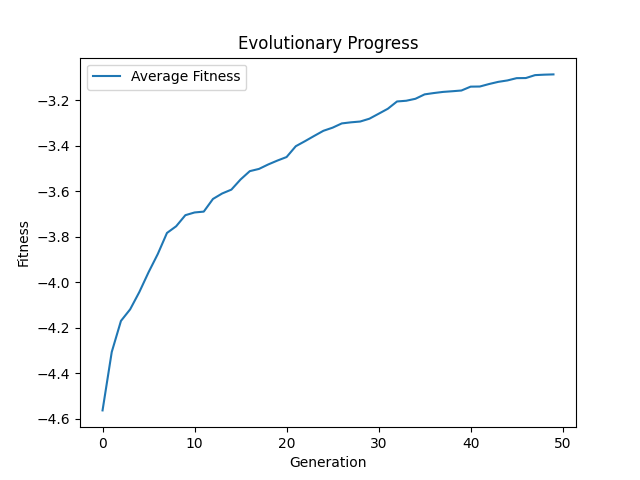
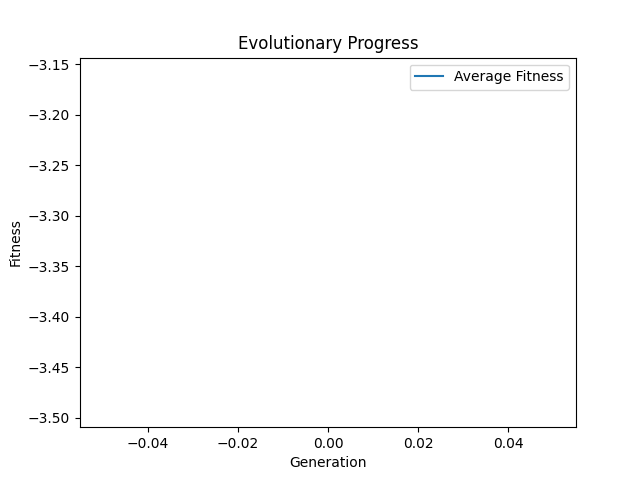
automating A/B

diff --git a/search.py b/search.py
@@ -1,11 +1,71 @@
 import os
+import numpy as np
+import matplotlib.pyplot as plt
 from parallelHillClimber import PARALLEL_HILL_CLIMBER
 
+NUM_RUNS = 20 
 
-phc = PARALLEL_HILL_CLIMBER()
-phc.evolve()
-phc.Show_Best()
-phc.Show_Fitness_Curve()
-#for sim in range(5):
-#    os.system("python3 generate.py")
-#    os.system("python3 simulate.py")
+def run_experiment(body_type):
+    all_curves = []
+    best_overall_fitness = -np.inf
+    best_overall_weights = None
+    
+    for r in range(NUM_RUNS):
+        print(f"--- Running {body_type} Bot: Run {r+1}/{NUM_RUNS} ---")
+        phc = PARALLEL_HILL_CLIMBER(body_type)
+        phc.evolve()
+        
+        # Find the best bot in this specific run
+        best_index = 0
+        for i in phc.parents:
+            if phc.parents[i].fitness > phc.parents[best_index].fitness:
+                best_index = i
+        
+        run_best_bot = phc.parents[best_index]
+        
+        # Check if this bot is the best of ALL runs so far
+        if run_best_bot.fitness > best_overall_fitness:
+            best_overall_fitness = run_best_bot.fitness
+            
+            best_overall_weights = run_best_bot.weights.copy() 
+            
+        # Store the fitness curve from this run
+        all_curves.append(phc.average_fitness_curve)
+        
+    # Save the absolute best weights to a file in your directory
+    np.save(f"best_{body_type}_weights.npy", best_overall_weights)
+    print(f"Finished {body_type} Bot. Best overall fitness: {best_overall_fitness}")
+    
+    return all_curves
+
+# Run the experiments
+curves_A = run_experiment("A")
+curves_B = run_experiment("B")
+
+# Convert to numpy arrays to easily calculate the average across columns (generations)
+curves_A = np.array(curves_A)
+curves_B = np.array(curves_B)
+
+avg_curve_A = np.mean(curves_A, axis=0)
+avg_curve_B = np.mean(curves_B, axis=0)
+
+#GRAPHING
+plt.figure(figsize=(10,6))
+
+for curve in curves_A:
+    plt.plot(curve, color='blue', alpha=0.15)
+for curve in curves_B:
+    plt.plot(curve, color='orange', alpha=0.15)
+    
+# Plot the averages with solid, thick lines
+plt.plot(avg_curve_A, color='blue', linewidth=3, label='Average Bot A')
+plt.plot(avg_curve_B, color='orange', linewidth=3, label='Average Bot B')
+
+plt.title('Evolutionary Progress: Bot A vs Bot B')
+plt.xlabel('Generation')
+plt.ylabel('Average Population Fitness')
+plt.legend()
+
+# Save and show
+plt.savefig('A_vs_B_fitness_comparison.png')
+plt.show()

diff --git a/solution.py b/solution.py
@@ -6,10 +6,11 @@ import time
 import constants as C
 
 class SOLUTION:
-    def __init__(self, ID):
+    def __init__(self, ID, body_type):
         self.weights = np.random.rand(C.numSensorNeurons, C.numMotorNeurons)
         self.weights = self.weights * 2 - 1
         self.myID = ID
+        self.body_type = body_type
         
     def Wait_For_Simulation_To_End(self):
         fitnessFile = f"fitness{self.myID}.txt"
@@ -65,7 +66,7 @@ class SOLUTION:
         pyrosim.Send_Cube(name=f"LeftLowerLeg", pos=[0,0,-.5] , size=[.2,.2,1])
         pyrosim.Send_Joint( name = "LeftLeg_LeftLowerLeg" , parent= "LeftLeg" , child = "LeftLowerLeg" , type = "revolute", position = [-1,0,0], jointAxis = "0 1 0")
         
-        if (C.body_type == "A"):
+        if (self.body_type == "A"):
             ### front left
             pyrosim.Send_Cube(name=f"FrontLeg", pos=[-.5,0,0] , size=[1,.2,.2])
             pyrosim.Send_Joint( name = "Torso_FrontLeg" , parent= "Torso" , child = "FrontLeg" , type = "revolute", position = [1,.5,1], jointAxis = "0 1 0")
@@ -77,7 +78,7 @@ class SOLUTION:
             pyrosim.Send_Joint( name = "Torso_RightLeg" , parent= "Torso" , child = "RightLeg" , type = "revolute", position = [1,-.5,1], jointAxis = "0 1 0")
             pyrosim.Send_Cube(name=f"RightLowerLeg", pos=[0,0,-.5] , size=[.2,.2,1])
             pyrosim.Send_Joint( name = "RightLeg_RightLowerLeg" , parent= "RightLeg" , child = "RightLowerLeg" , type = "revolute", position = [-1,0,0], jointAxis = "0 1 0")
-        elif (C.body_type == "B"):
+        elif (self.body_type == "B"):
             ### front left
             pyrosim.Send_Cube(name=f"FrontLeg", pos=[.5,0,0] , size=[1,.2,.2])
             pyrosim.Send_Joint( name = "Torso_FrontLeg" , parent= "Torso" , child = "FrontLeg" , type = "revolute", position = [1,.5,1], jointAxis = "0 1 0")

diff --git a/play_best.py b/play_best.py
@@ -1,0 +1,25 @@
+import sys
+import numpy as np
+from solution import SOLUTION
+
+if len(sys.argv) < 2:
+    print("Please specify bot type: python play_best.py A   OR   python play_best.py B")
+    sys.exit()
+
+bot_type = sys.argv[1].upper()
+
+print(f"Loading best {bot_type} bot...")
+
+best_bot = SOLUTION(0, bot_type)
+
+try:
+    best_bot.weights = np.load(f"best_{bot_type}_weights.npy")
+except FileNotFoundError:
+    print(f"Could not find best_{bot_type}_weights.npy. Did you run search.py first?")
+    sys.exit()
+
+# Run in GUI mode
+best_bot.Start_Simulation("GUI")
+best_bot.Wait_For_Simulation_To_End()
+
+print(f"Final Fitness: {best_bot.fitness}")

diff --git a/parallelHillClimber.py b/parallelHillClimber.py
@@ -6,7 +6,7 @@ import copy
 import os
 
 class PARALLEL_HILL_CLIMBER:
-    def __init__(self):
+    def __init__(self, body_type):
         os.system("del fitness*.txt")
         os.system("del brain*.nndf")
         self.average_fitness_curve = []
@@ -14,7 +14,7 @@ class PARALLEL_HILL_CLIMBER:
         self.parents = {}
         self.nextAvailableID = 0
         for i in range(C.POPULATION_SIZE):
-            self.parents[i] = SOLUTION(self.nextAvailableID)
+            self.parents[i] = SOLUTION(self.nextAvailableID, body_type)
             self.nextAvailableID += 1
 
     def Evaluate(self, solutions):

diff --git a/constants.py b/constants.py
@@ -5,16 +5,16 @@ import random
 #constants
 
 #bot body construction
-body_type = "A" #"B" for flipped legs
+#body_type = "A" #"B" for flipped legs
 
 #gravity
 GRAVITY = -9.8
 #length of each simulation
 SIM_LENGTH = 1000
 #number of generations
-GENERATIONS = 50
+GENERATIONS = 20
 #population size
-POPULATION_SIZE = 50
+POPULATION_SIZE = 20
 
 #Fitness weights
 block_height_weight = 1.2
